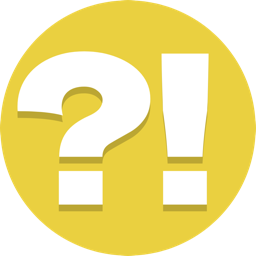
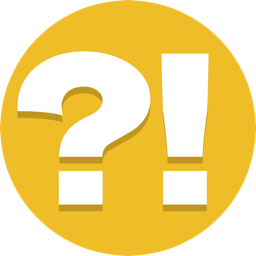
v3.30.0

diff --git a/public/app.css b/public/app.css
@@ -128,6 +128,7 @@ html.tt-edit-boot #overlay-submit {
   background-size: contain;
   background-repeat: no-repeat;
   background-position: center;
+  filter: drop-shadow(0 2px 0 rgba(0, 0, 0, 0.2));
 }
 
 .mode-name {
